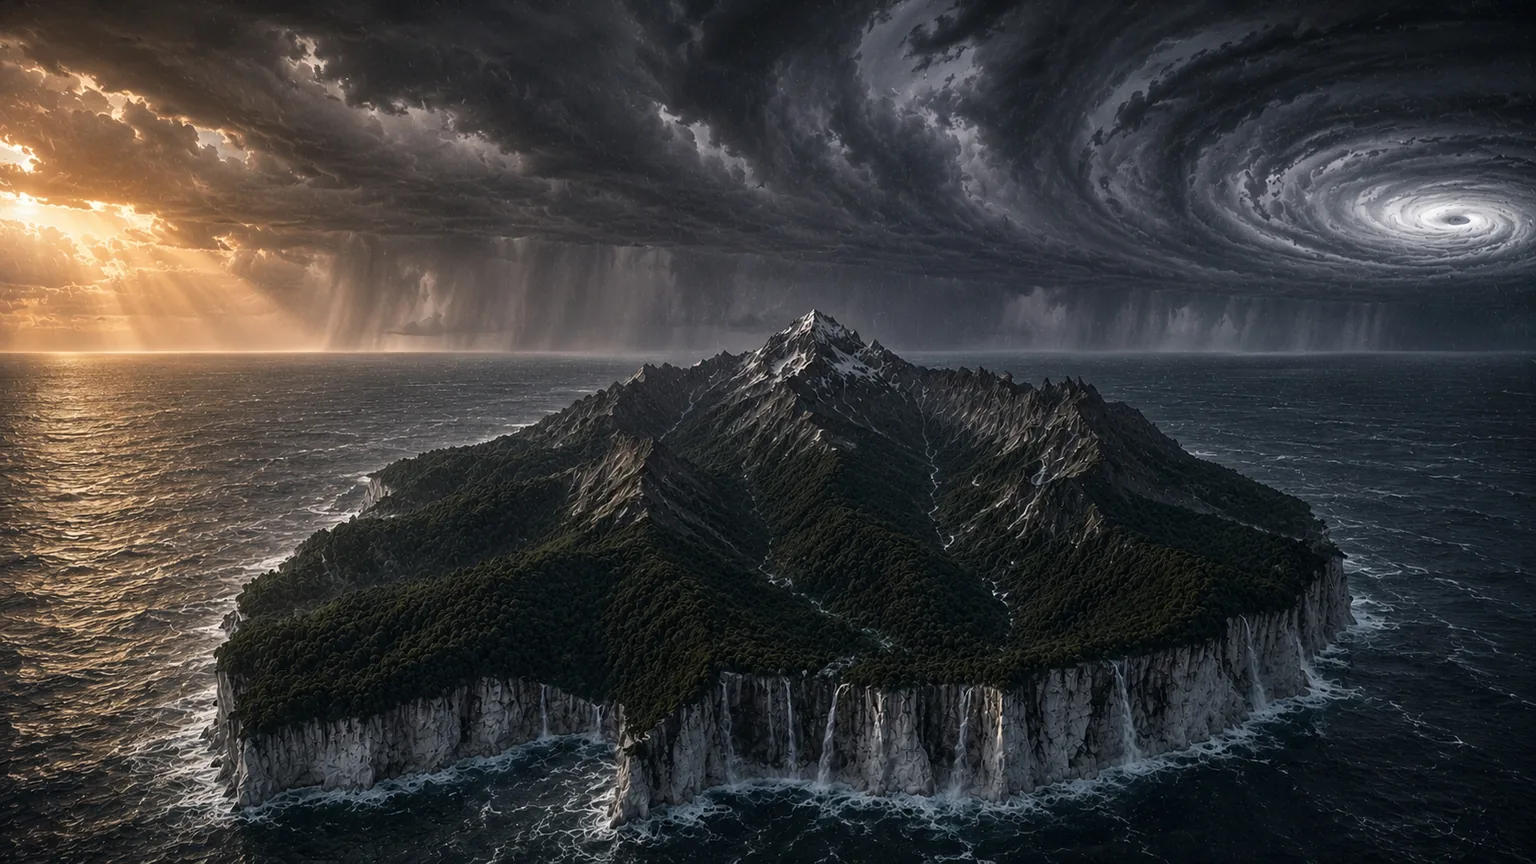
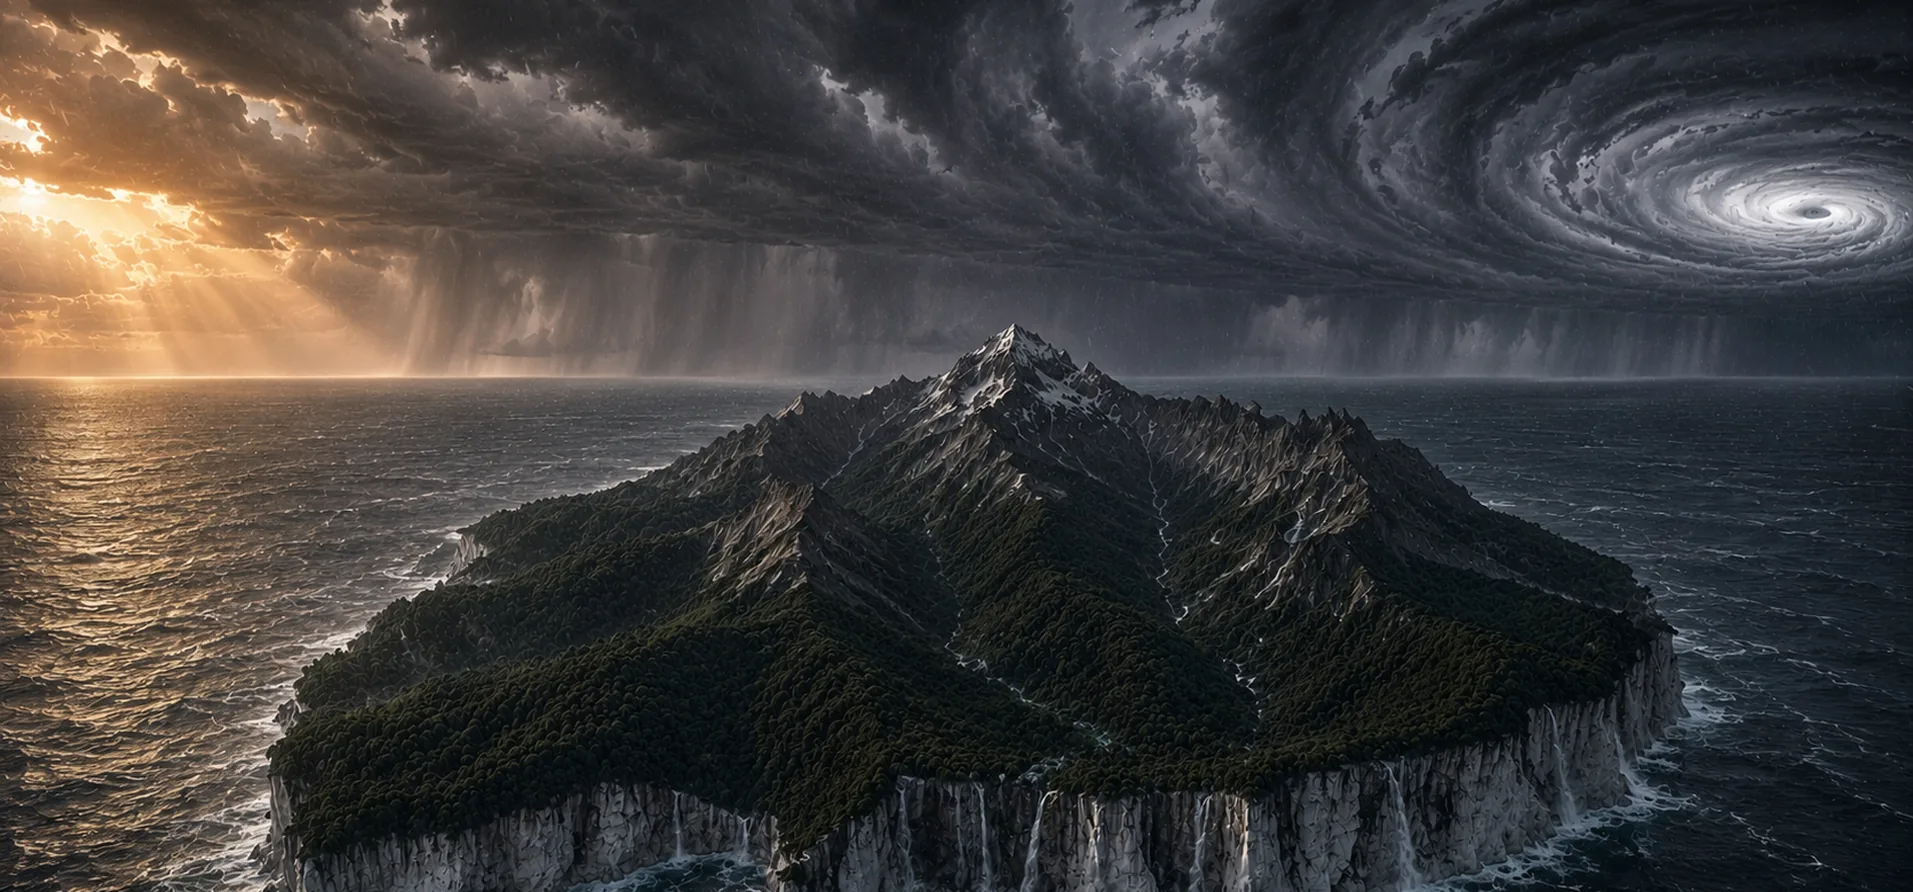
Fix Landfall hero: z-index stacking, image ratio match
- Add z-index:2 to lf-hero-section and lf-manifesto (fixes blue strip bleed)
- Resize hero-landfall.webp to 1913x892 matching hero-mountain.webp ratio
- Resize hero-landfall-mobile.webp to 800x373
- Update srcset width and img dimensions in HTML

Authored and reviewed by Basho Parks, Copyright 2026

diff --git a/css/style.css b/css/style.css
@@ -2091,7 +2091,7 @@ a.risk-card--link:hover {
 /* ═══ LANDFALL PREORDER PAGE (Session 65) ═══ */
 
 /* Hero with background image */
-.lf-hero-section { position: relative; min-height: 80vh; display: flex; flex-direction: column; align-items: center; justify-content: center; text-align: center; padding: 140px 32px 80px; overflow: hidden; }
+.lf-hero-section { position: relative; z-index: 2; min-height: 80vh; display: flex; flex-direction: column; align-items: center; justify-content: center; text-align: center; padding: 140px 32px 80px; overflow: hidden; }
 .lf-hero-bg { position: absolute; inset: 0; z-index: 0; }
 .lf-hero-bg img { width: 100%; height: 100%; object-fit: cover; object-position: center 30%; }
 .lf-hero-bg::after { content: ''; position: absolute; inset: 0; background: linear-gradient(180deg, rgba(15,23,42,0.25) 0%, rgba(15,23,42,0.05) 30%, rgba(15,23,42,0.05) 50%, rgba(15,23,42,0.4) 75%, rgba(15,23,42,0.9) 100%); pointer-events: none; }
@@ -2108,7 +2108,7 @@ a.risk-card--link:hover {
 @keyframes lfScrollPulse { 0%, 100% { opacity: 0.3; } 50% { opacity: 1; } }
 
 /* Manifesto */
-.lf-manifesto { padding: 80px 32px; background: var(--secondary-dark); border-top: 1px solid rgba(245,158,11,0.12); border-bottom: 1px solid rgba(245,158,11,0.12); }
+.lf-manifesto { position: relative; z-index: 2; padding: 80px 32px; background: var(--secondary-dark); border-top: 1px solid rgba(245,158,11,0.12); border-bottom: 1px solid rgba(245,158,11,0.12); }
 .lf-manifesto-inner { max-width: 820px; margin: 0 auto; }
 .lf-manifesto blockquote { font-family: 'Space Grotesk', sans-serif; font-size: clamp(1.3rem, 3vw, 2rem); font-weight: 500; color: var(--text-light); line-height: 1.4; border-left: 3px solid var(--copper); padding-left: 28px; margin-bottom: 28px; }
 .lf-manifesto p { color: var(--text-muted); line-height: 1.75; margin-bottom: 16px; }

diff --git a/landfall-preorder.html b/landfall-preorder.html
@@ -150,7 +150,7 @@
 
   <!-- Hero background photo -->
   <div class="hero-photo">
-    <img srcset="images/hero-landfall-mobile.webp 800w, images/hero-landfall.webp 1536w" sizes="100vw" src="images/hero-landfall.webp" alt="Island Mountain Landfall Series" fetchpriority="high" decoding="async" width="1536" height="864">
+    <img srcset="images/hero-landfall-mobile.webp 800w, images/hero-landfall.webp 1913w" sizes="100vw" src="images/hero-landfall.webp" alt="Island Mountain Landfall Series" fetchpriority="high" decoding="async" width="1913" height="892">
   </div>
 
   <nav class="navbar">
